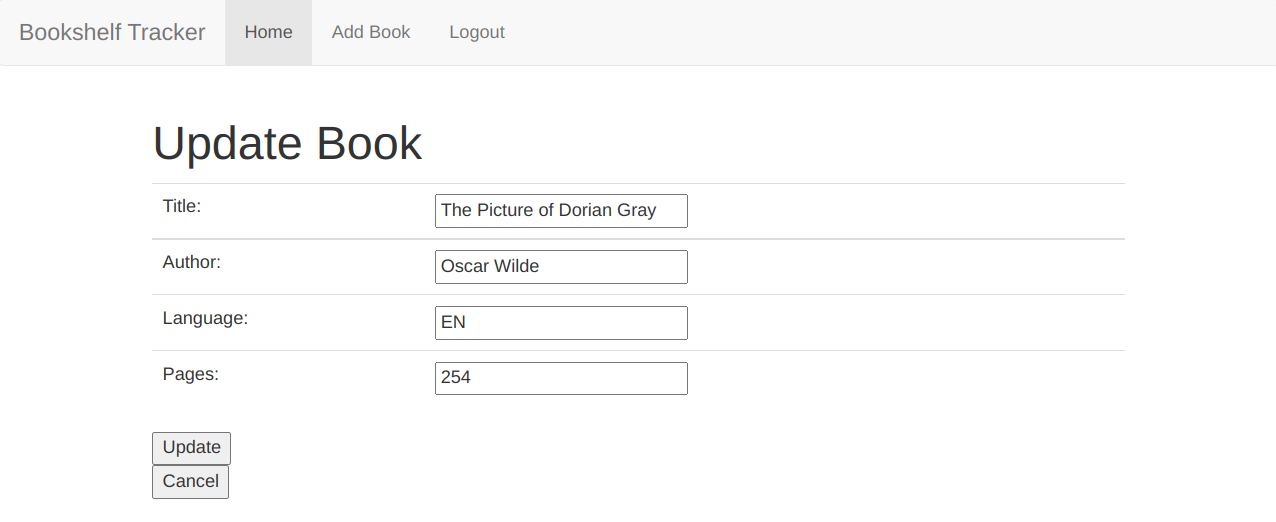
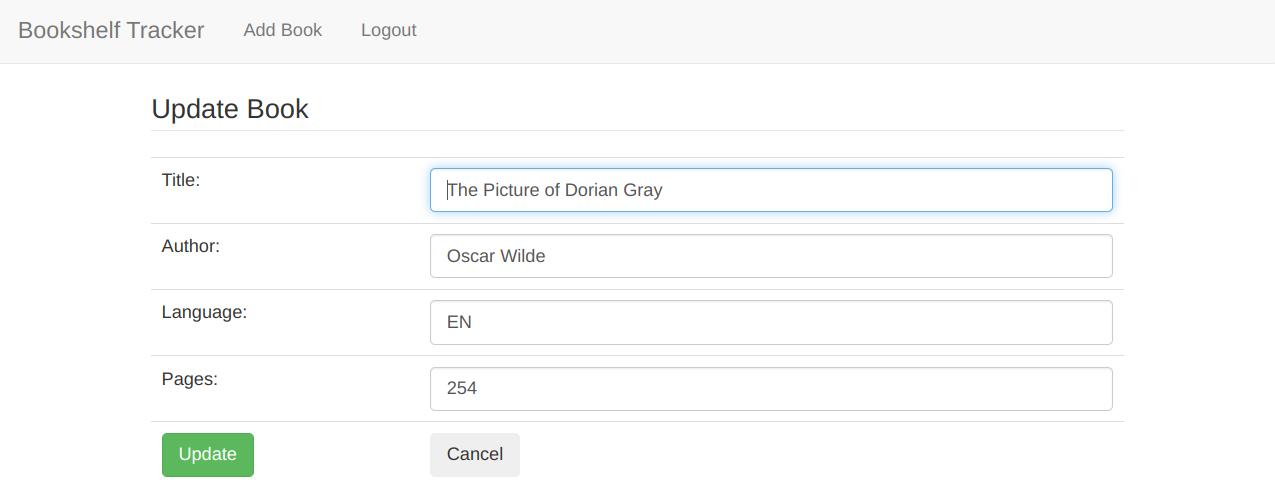
update page display add book, edit book, add log

diff --git a/src/main/resources/templates/books/add-book.html b/src/main/resources/templates/books/add-book.html
@@ -8,69 +8,57 @@
 <div class="container">
 	<div class="row">
 		<div class="col">
-		<table class="table">
-		<form th:action="@{/save}" th:object="${book}" method="post">
-		<legend>Add New Book</legend>
-		<input type="hidden" th:field="*{username}" id="username">
-			<tbody>
-				<tr>
-				<div class="control-group input" th:class="${#fields.hasErrors('title')} ? 'control-group input error'">
-					<td>
-						<p>Title:</p>
-					</td>
-					<td>
-						<input type="text" th:field="*{title}"/>
-						<span class="help-block" th:if="${#fields.hasErrors('title')}" th:errors="*{title}"></span>
-					</td>
-				</div>
-				</tr>
-				<tr>
-					<div class="control-group input" th:class="${#fields.hasErrors('author')} ? 'control-group input error'">
-					<td>
-						<p>Author:</p>
-					</td>
-					<td>
-						<input type="text" th:field="*{author}"/>
-						<span class="help-block" th:if="${#fields.hasErrors('author')}" th:errors="*{author}"></span>
-					</td>
+			<table class="table">
+			<div class="form-group input">
+				<form action="/">
+					<button type="submit" class="btn">Back</button>
+				</form>
+			</div>
+			<form th:action="@{/save}" th:object="${book}" method="post">
+			<input type="hidden" th:field="*{username}" id="username">
+			<legend>Add New Book</legend>
+				<tbody>
+					<tr>
+					<div class="form-group input" th:class="${#fields.hasErrors('title')} ? 'control-group input error'">
+						<td><p>Title:</p></td>
+						<td>
+							<input id="title" class="form-control" type="text" th:field="*{title}" required-autofocus="autofocus" />
+							<span class="help-block" th:if="${#fields.hasErrors('title')}" th:errors="*{title}"></span>
+						</td>
 					</div>
-				</tr>
-				<tr>
-					<div class="control-group input" th:class="${#fields.hasErrors('language')} ? 'control-group input error'">
-					<td>
-						<p>Language:</p>
-					</td>
-					<td>
-						<input type="text" th:field="*{language}"/>
-						<span class="help-block" th:if="${#fields.hasErrors('language')}" th:errors="*{language}"></span>
-					</td>
-					</div>
-				</tr>
-				<tr>
-					<div class="control-group input">	
-					<td>
-						<p>Pages:</p>
-					</td>
-					<td>
-						<input type="text" th:field="*{pages}"/>
-					</td>
-					</div>		
-				</tr>
-				<tr>
-					<td>
-						<button type="submit">Add</button>
-					</td>
-					<td>						
-						<div>
-							<form action="/">
-								<button type="submit">Cancel</button>
-							</form>
+					</tr>
+					<tr>
+						<div class="form-group input" th:class="${#fields.hasErrors('author')} ? 'control-group input error'">
+						<td><p>Author:</p></td>
+						<td>
+							<input id="author" class="form-control" type="text" th:field="*{author}" required-autofocus="autofocus" />
+							<span class="help-block" th:if="${#fields.hasErrors('author')}" th:errors="*{author}"></span>
+						</td>
 						</div>
-					</td>
-				</tr>
-			</tbody>
-		</form>
-		</table>
+					</tr>
+					<tr>
+						<div class="form-group input" th:class="${#fields.hasErrors('language')} ? 'control-group input error'">
+						<td><p>Language:</p></td>
+						<td>
+							<input id="language" class="form-control" type="text" th:field="*{language}" required-autofocus="autofocus" />
+							<span class="help-block" th:if="${#fields.hasErrors('language')}" th:errors="*{language}"></span>
+						</td>
+						</div>
+					</tr>
+					<tr>
+						<div class="form-group input">
+							<td><p>Pages:</p></td>
+							<td><input id="pages" class="form-control" type="text" th:field="*{pages}"/></td>
+						</div>		
+					</tr>
+					<tr>
+						<td style="text-align:center" colspan="2">
+							<button type="submit" class="btn btn-success">Add</button>
+						</td>
+					</tr>
+				</tbody>
+			</form>
+			</table>
 		</div>
 	</div>
 </div>

diff --git a/src/main/resources/templates/books/edit-book.html b/src/main/resources/templates/books/edit-book.html
@@ -7,33 +7,62 @@
 <div th:insert="~{header :: navigation}"></div>
 <div class="container">
 	<div class="row">
-		<h1>Update Book</h1>
-		<form th:action="@{/save}" th:object="${book}" method="post">
-		<input type="hidden" th:field="*{username}" id="username">
-		<input type="hidden" th:field="*{id}" id="id">
-		<table class="table">
-			<tr>
-				<td>Title:</td>
-				<td><input type="text" th:field="*{title}" id="title" placeholder="Title" /> <span th:if="${#fields.hasErrors('title')}" th:errors="*{title}"></span></td>
-			</tr>
-			<tr>
-				<td>Author:</td>
-				<td><input type="text" th:field="*{author}" id="author" placeholder="Author" /> <span th:if="${#fields.hasErrors('author')}" th:errors="*{author}"></span></td>
-			</tr>
-			<tr>
-				<td>Language:</td>
-				<td><input type="text" th:field="*{language}" id="language" placeholder="Langauge" /></td>
-			</tr>
-			<tr>
-				<td>Pages:</td>
-				<td><input type="text" th:field="*{pages}" id="pages" placeholder="Pages" /></td>
-			</tr>
-		</table>
-		<button type="submit">Update</button>
-	</form>
-	<form action="/">
-		<button type="submit">Cancel</button>
-	</form>
+		<div class="col">
+			<table class="table">
+			<form th:action="@{/save}" th:object="${book}" method="post">
+			<legend>Update Book</legend>
+			<input type="hidden" th:field="*{username}" id="username">
+			<input type="hidden" th:field="*{id}" id="id">
+				<tbody>
+					<tr>
+					<div class="form-group input" th:class="${#fields.hasErrors('title')} ? 'control-group-input error'">
+						<td><p>Title:</p></td>
+						<td>
+							<input id="title" class="form-control" type="text" th:field="*{title}" placeholder="Title" required autofocus="autofocus" /> 
+							<span th:if="${#fields.hasErrors('title')}" th:errors="*{title}"></span>
+						</td>
+					</div>
+					</tr>
+					<tr>
+					<div class="form-group input" th:class="${#fields.hasErrors('title')} ? 'control-group-input error'">
+						<td><p>Author:</p></td>
+						<td>
+							<input id="author" class="form-control" type="text" th:field="*{author}" placeholder="Author" required autofocus="autofocus" /> 
+							<span th:if="${#fields.hasErrors('author')}" th:errors="*{author}"></span>
+						</td>
+					</div>
+					</tr>
+					<tr>
+					<div class="form-group input" th:class="${#fields.hasErrors('title')} ? 'control-group-input error'">
+						<td><p>Language:</p></td>
+						<td>
+							<input id="language" class="form-control" type="text" th:field="*{language}" placeholder="Langauge" required autofocus="autofocus" />
+							<span th:if="${#fields.hasErrors('language')}" th:errors="*{language}"></span>
+						</td>
+					</div>
+					</tr>
+					<tr>
+					<div class="form-group input">
+						<td><p>Pages:</p></td>
+						<td>
+							<input id="pages" class="form-control" type="text" th:field="*{pages}" placeholder="Pages" />
+						</td>
+					</div>
+					</tr>
+					<tr>
+						<td><button type="submit" class="btn btn-success">Update</button></td>
+						<td>
+							<div class="form-group">
+								<form action="/">
+									<button type="submit" class="btn">Cancel</button>
+								</form>
+							</div>
+						</td>
+					</tr>
+				</tbody>
+			</form>
+			</table>
+		</div>
 	</div>
 </div>
 </body>

diff --git a/src/main/resources/templates/logs/add-log.html b/src/main/resources/templates/logs/add-log.html
@@ -8,33 +8,47 @@
 <div class="container">
 	<div class="row">
 		<div class="col">
-			<h1>Add Log</h1>
+			<table class="table">
 			<form th:action="@{/saveLog}" th:object="${book}" method="post">
+			<legend>Add New Log</legend>
 			<input type="hidden" th:field="*{username}" id="username">
 			<input type="hidden" th:field="*{id}" id="id">
 			<input type="hidden" th:field="*{title}" id="title">
 			<input type="hidden" th:field="*{author}" id="author">
 			<input type="hidden" th:field="*{language}" id="language">
 			<input type="hidden" th:field="*{pages}" id="pages">
-		
-			<table class="table">
-				<tr>
-					<td>Start:</td>
-					<td><input type="date" th:field="*{{start}}" /></td>
-					<td><span th:if="${#fields.hasErrors('start')}" th:errors="*{start}"></span></td>
-				</tr>
-				<tr>
-					<td>Finish:</td>
-					<td><input type="date" th:field="*{{finish}}" /></td>
-					<td><span th:if="${#fields.hasErrors('finish')}" th:errors="*{finish}"></span></td>
-				</tr>
+				<tbody>			
+					<tr>
+					<div class="form-group input" th:class="${#fields.hasErrors('start')} ? 'control-group input error'">
+						<td><p>Start:</p></td>
+						<td>
+							<input id="start" class="form-control" type="date" th:field="*{{start}}" required autofocus="autofocus" />
+							<span th:if="${#fields.hasErrors('start')}" th:errors="*{start}"></span>
+						</td>
+					</div>
+					</tr>
+					<tr>
+					<div class="form-group input" th:class="${#fields.hasErrors('finish')} ? 'control-group input error'">
+						<td><p>Finish:</p></td>
+						<td>
+							<input id="finish" class="form-control" type="date" th:field="*{{finish}}" />
+							<span th:if="${#fields.hasErrors('finish')}" th:errors="*{finish}"></span>
+						</td>
+					</div>
+					</tr>
+					<tr>
+						<td><button type="submit">Add Log</button></td>
+						<td>
+							<div class="form-group input">
+								<form th:action="@{/view/{id}(id=${book.id})}" th:object="${book}" method="get">
+									<button type="submit">Cancel</button>
+								</form>
+							</div>
+						</td>
+					</tr>
+				</tbody>
+				</form>
 			</table>
-			<button type="submit">Add Log</button>
-			</form>
-			<br>
-			<form th:action="@{/view/{id}(id=${book.id})}" th:object="${book}" method="get">
-				<button type="submit">Cancel</button>
-			</form>
 		</div>
 	</div>
 </div>

diff --git a/Readme.md b/Readme.md
@@ -18,6 +18,10 @@ View and edit book details:
 
 ![Edit Book Page](https://github.com/oneexists/readingTracker/blob/main/img/edit_book.png)
 
+Add logs to track your reading:
+
+![Add Log Page](https://github.com/oneexists/readingTracker/blob/main/img/add_log.png)
+
 # Domain Model
 
 ![Reading Tracker Domain Model](https://github.com/oneexists/readingTracker/blob/main/img/reading_tracker_domain.png)
@@ -68,8 +72,8 @@ facilitate interaction
 
 # Non-Functional Requirements
 
-- Look and Feel: improve front-end development skills by learning new technologies to
-improve UI/UX of web interface
+- Look and Feel:
+    - add Bootstrap to improve UI display of forms
 
 - Usability:
     - provide hypermedia driven RESTful API
